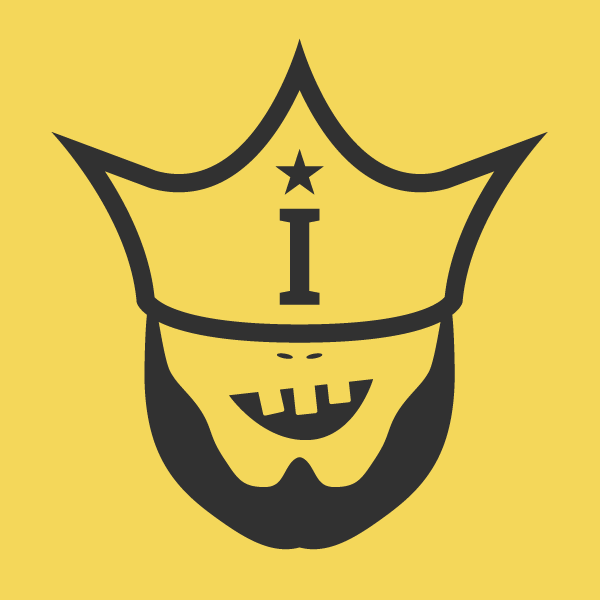
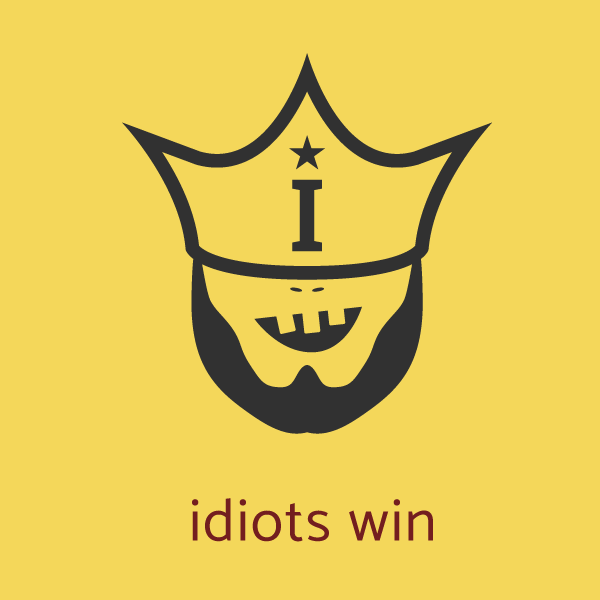
readme added.

Changed region(s): [[0.09, 0.06, 0.9, 0.93]]

diff --git a/index.html b/index.html
@@ -148,7 +148,6 @@
       }
     </script>
     <script src="https://code.jquery.com/jquery-2.1.4.min.js"></script>
-    <script src="/js/lib/typeit.min.js"></script>
     <script src="/js/min/search.min.js"></script>
     <script>
       (function(i,s,o,g,r,a,m){i['GoogleAnalyticsObject']=r;i[r]=i[r]||function(){

diff --git a/readme.md b/readme.md
@@ -1,24 +1,28 @@
-![damn.dog](http://damn.dog/img/twitter-card.png)
-###(a WikiHow Picture Guessing Game)
+![damn.dog](http://idiots.win/img/twitter-card.png)
+###(The Google Autocomplete Guessing Game)
 
 ## What is this?
-Damn.dog is a game where you are shown an actual WikiHow illustration, and have to figure out which actual WikiHow article it belongs to. [Pull requests](https://github.com/AhoyLemon/Damn-Dog/pull/new/gh-pages) welcome.
+**idiots win** turns Google autocomplete function into a guessing game. Each new round, the game takes the five top autocompletes for a given query, randomizes them, and invites you to guess which one was meant to come first in the results.
 
-## What's with the name?
-The name actually came first. I was surprised to find out that the domain `damn.dog` was not already taken, so I had to get it for myself. After that point I had to try to figure out what to do with it. This is what came to mind.
+## Tell me more about this autocomplete query.
+It is decidedly *not* officially supported by Google. The site does a json request out to suggestqueries.google.com and comes back with the results. It works for now, I have no idea if it will continue to work in the future.
 
-## Who worked on this?
-[Lemon](https://thefpl.us/meet/lemon) made the game itself. Some others have added some illustrations...
+Also, Google's autocomplete is constantly changing and based on regional information. The top result is realistically only the top result for you at that moment.
 
-* [Portaxx](https://thefpl.us/meet/portaxx)
-* [Montrith](https://thefpl.us/meet/montrith)
-* [Eldritchhat](https://github.com/Eldritchhat)
-* [Chai Tea Latte](https://thefpl.us/meet/chai-tea-latte)
-* [Boots Raingear](https://thefpl.us/meet/boots-raingear)
+## Who made this
+[Lemon](https://thefpl.us/meet/lemon) made this. [Montrith](https://thefpl.us/meet/montrith) provided the majority of the queries.
 
-## Any more places for illustratons?
-* [WikiHow Illustrations Tumblr](http://wikihow-illustrations.tumblr.com/)
-* [@WikiHowArt](https://twitter.com/WikiHowArt)
+## Isn't this kind of like Google Feud? 
+[Google Feud](http://www.googlefeud.com/) is a site built by [Justin Hook](https://twitter.com/justinhook) that turns Google's autocomplete into a game of Family Feud. It's terrific, you should play it if you haven't. This is a different approach to the same idea.
 
-## Hey, how do I add images?
-I wrote [a wiki](https://github.com/AhoyLemon/Damn-Dog/wiki)
+## Can I suggest queries?
+Sure. Either get a hold of Lemon to get access to the master spreadsheet, or submit a pull request.
+
+## Do you take pull requests?
+Absolutely.
+
+## What's this written in?
+* [Jade](http://jade-lang.com/)
+* [Sass](http://sass-lang.com/)
+* [jQuery](http://jquery.com/)
+* The typing effect was modified from [this pen](http://codepen.io/stathisg/pen/Bkvhg/) by [Stathis](http://codepen.io/stathisg/)
